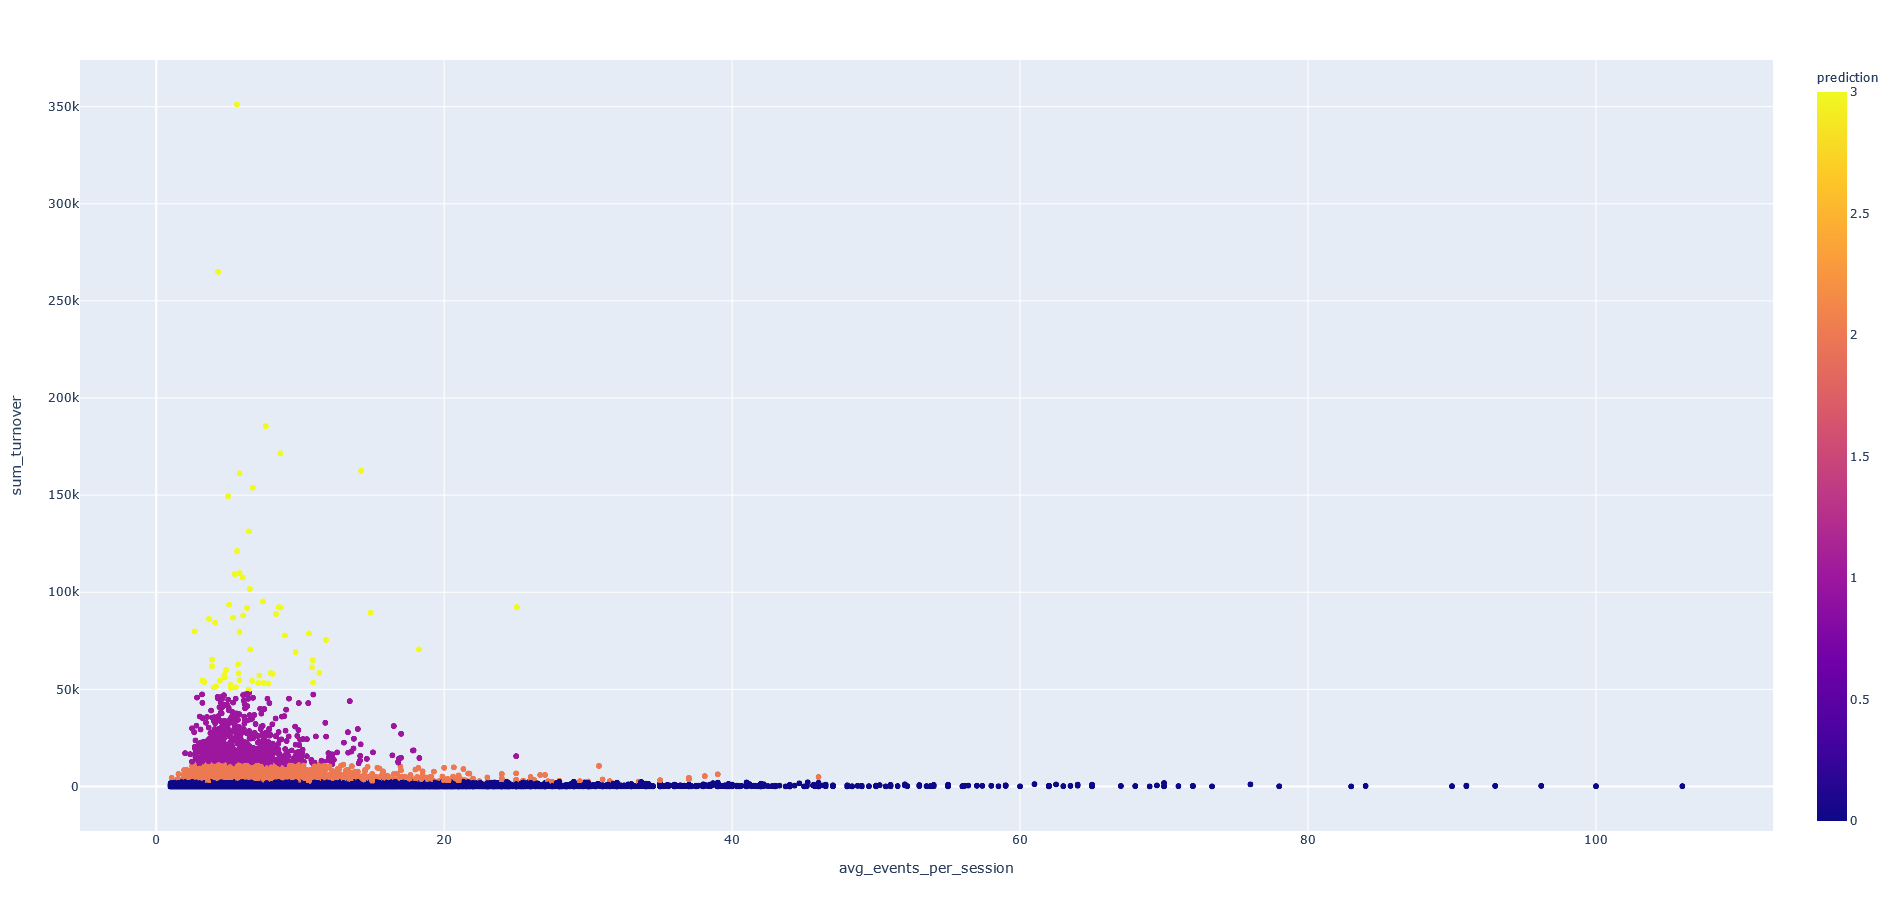
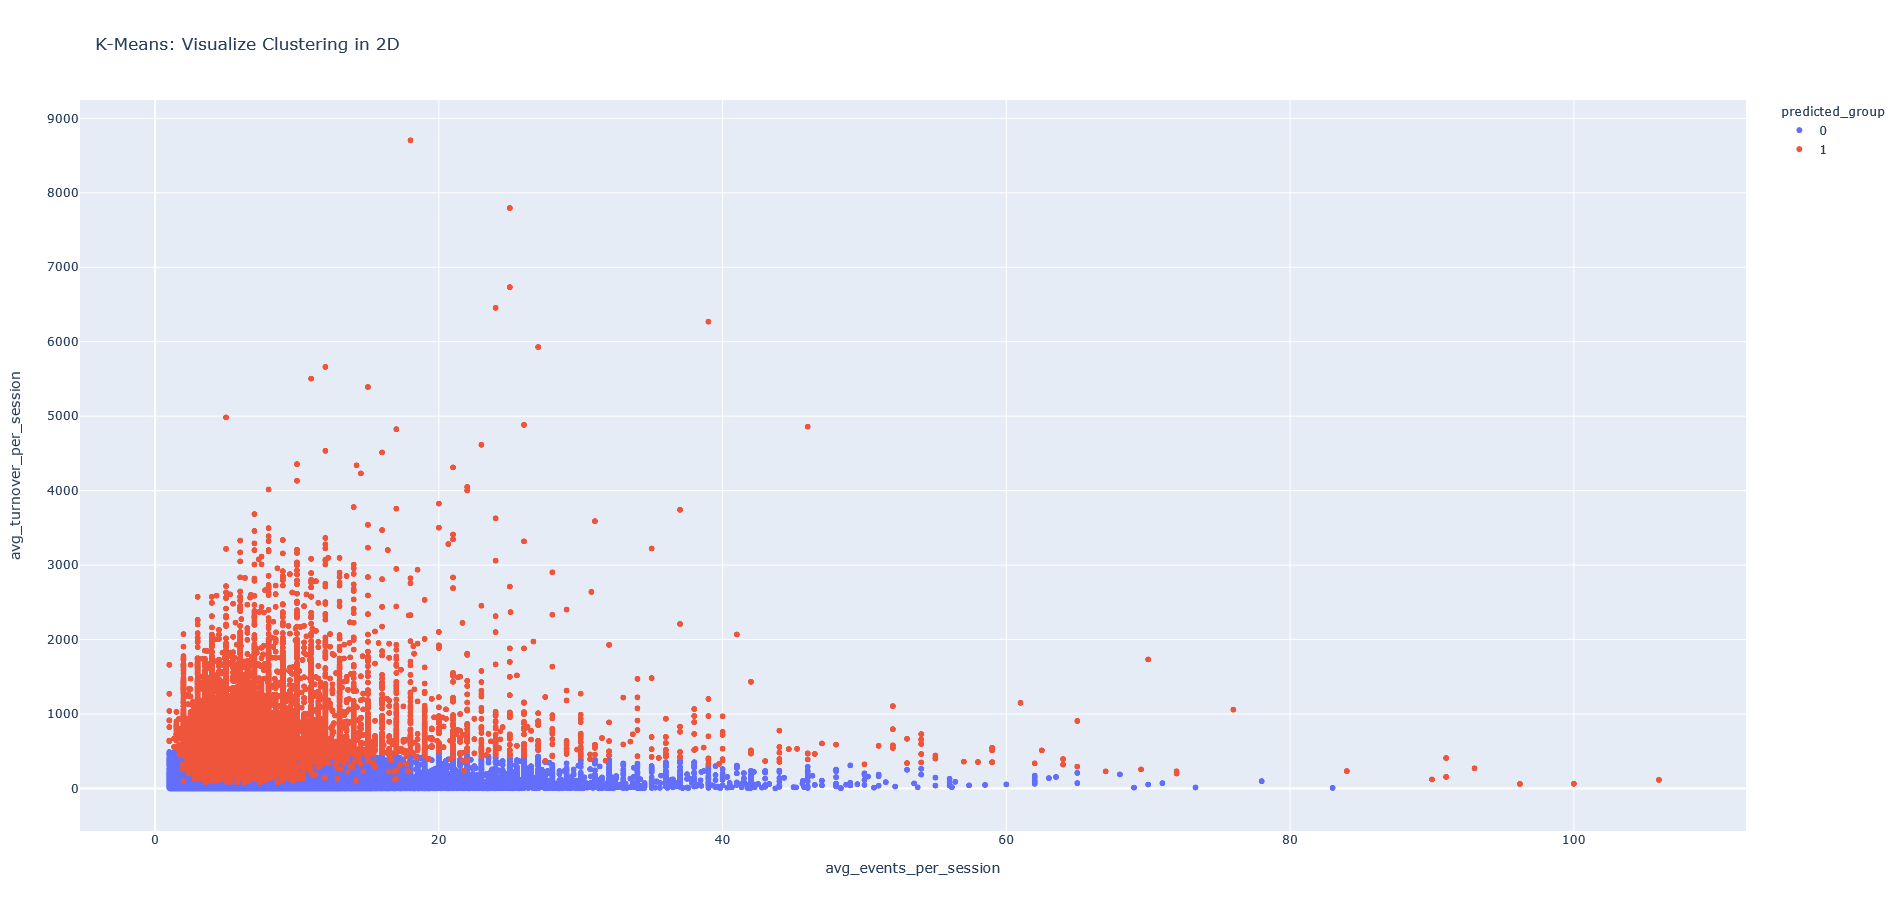
working kmeans with beautiful vis

diff --git a/src/cluster_customer.py b/src/cluster_customer.py
@@ -6,8 +6,9 @@ import plotly.graph_objects as go
 import numpy as np
 from pyspark.ml.evaluation import ClusteringEvaluator
 from pyspark.ml.clustering import KMeans
-from pyspark.ml.feature import VectorAssembler, StandardScaler
+from pyspark.ml.feature import VectorAssembler, StandardScaler, MinMaxScaler, MaxAbsScaler
 from pyspark.ml.feature import MinMaxScaler
+from pyspark.ml.functions import vector_to_array
 from pyspark.ml.feature import VectorAssembler
 from pyspark.ml import Pipeline
 from pyspark.sql.functions import udf
@@ -35,7 +36,7 @@ class ClusterCustomer:
             self.data.export_to_csv(sdf_customer_profile, "data/customer_profile.csv")
         else:
             self.log.info("Read customer profile from CSV")
-            sdf_customer_profile = self.data.spark.read.csv("src/data/customer_profile_new.csv", header=True,
+            sdf_customer_profile = self.data.spark.read.csv("data/customer_profile_new.csv", header=True,
                                                             inferSchema=True)
             # sdf_customer_profile.printSchema()
 
@@ -62,27 +63,15 @@ class ClusterCustomer:
 
     def scale(self, v_data):
         self.log.info("Start scaling")
-        scaler = StandardScaler(inputCol="features", outputCol="scaled_features")
+        scaler = MaxAbsScaler(inputCol="features", outputCol="scaled_features")
         scaled_data = scaler.fit(v_data)
         scaled_data_ouptut = scaled_data.transform(v_data)
 
         # scaled_data_ouptut.select("features", "scaled_features").show(truncate=False)
         return scaled_data_ouptut
 
-    def scale_sdf(self, df):
-        df = self.spark.createDataFrame(self.sc.parallelize([['a', [1, 2, 3], [1, 2, 3]], ['b', [2, 3, 4], [2, 3, 4]]]),
-                                   ["id", "var1", "var2"])
 
-        columns = df.drop('id').columns
-        df_sizes = df.select(*[f.size(col).alias(col) for col in columns])
-        df_max = df_sizes.agg(*[f.max(col).alias(col) for col in columns])
-        max_dict = df_max.collect()[0].asDict()
-
-        df_result = df.select('id', *[df[col][i] for col in columns for i in range(max_dict[col])])
-        df_result.show()
-        return df
-
-    def k_means(self, trainData, testData, k=2):
+    def k_means(self, trainData, testData, k=10):
         # v_trainData = self.vectorize(trainData)
         # v_testData = self.vectorize(testData)
 
@@ -141,22 +130,25 @@ class ClusterCustomer:
         predictions = predictions.withColumn("predicted_group",
                                              predictions["prediction"].cast(pyspark.sql.types.StringType()))
 
-        # fig2 = px.scatter(predictions.toPandas(), x="avg_events_per_session", y="avg_turnover_per_session",
-        #                   color="predicted_group", hover_data=["user_id", "sum_turnover", "count_session"],
-        #                   title="K-Means: Visualize Clustering in 2D")
-        # fig2.show()
+        fig2 = px.scatter(predictions.toPandas(), x="avg_events_per_session", y="avg_turnover_per_session",
+                          color="predicted_group", hover_data=["user_id", "sum_turnover", "count_session"],
+                          title="K-Means: Visualize Clustering in 2D")
+        fig2.show()
+        n = len(self.features)
+        scaled_array = predictions.select("prediction", vector_to_array("scaled_features"))
+        result = scaled_array.select("prediction", *[scaled_array["UDF(scaled_features)"][i] for i in range(n)])
+        result.show()
 
-        predictions_scaled = predictions.withColumn("avg_turnover_per_session", predictions["avg_turnover_per_session"])
-
-        avg_per_feature = predictions.groupBy("prediction").agg(f.avg("avg_turnover_per_session").alias("avg_turnover_per_session"),
-                                                                f.avg("avg_events_per_session").alias("avg_events_per_session"),
-                                                                f.avg("sum_turnover").alias("sum_turnover"),
-                                                                f.avg("count_session").alias("count_session"),
-                                                                f.stddev("avg_turnover_per_session").alias("dev_avg_turnover_per_session"),
-                                                                f.stddev("avg_events_per_session").alias("dev_avg_events_per_session"),
-                                                                f.stddev("sum_turnover").alias("dev_sum_turnover"),
-                                                                f.stddev("count_session").alias("dev_count_session")
-                                                                )
+        avg_per_feature = result.groupBy("prediction").agg(
+            f.avg("UDF(scaled_features)[0]").alias("avg_turnover_per_session"),
+            f.avg("UDF(scaled_features)[1]").alias("avg_events_per_session"),
+            f.avg("UDF(scaled_features)[2]").alias("sum_turnover"),
+            f.avg("UDF(scaled_features)[3]").alias("count_session"),
+            f.stddev("UDF(scaled_features)[0]").alias("dev_avg_turnover_per_session"),
+            f.stddev("UDF(scaled_features)[1]").alias("dev_avg_events_per_session"),
+            f.stddev("UDF(scaled_features)[2]").alias("dev_sum_turnover"),
+            f.stddev("UDF(scaled_features)[3]").alias("dev_count_session")
+            )
 
         avg_per_feature.show()
 
@@ -171,14 +163,14 @@ class ClusterCustomer:
                 name=feature,
             ))
 
-        fig.update_layout(barmode='group')
+        fig.update_layout(barmode='group', title="Scaled Feature per Group", legend_title="Feature")
         fig.update_xaxes(type='category')
         fig.show()
 
 
 if __name__ == "__main__":
     customer = ClusterCustomer()
-    train, test, dev = customer.prep_data(False)
+    train, test, dev = customer.prep_data(True)
     # result = customer.evaluate(train, test)
     result = customer.k_means(train, test)
     # print(result)

diff --git a/src/data_preparation.py b/src/data_preparation.py
@@ -76,6 +76,11 @@ class DataPreparation:
         # None Handling
         # sdf = sdf.fillna(value="not defined")
 
+        # drop extreme outlier around 15th of november -> only works for year 2019
+        sdf = sdf.where(sdf["dayofyear"] != 319)
+        sdf = sdf.where(sdf["dayofyear"] != 320)
+        sdf = sdf.where(sdf["dayofyear"] != 321)
+
         sdf.printSchema()
         return sdf
 
@@ -105,6 +110,7 @@ class DataPreparation:
                                                      f.when(sdf_session_agg["sum(purchases)"] > 0, 1).otherwise(0))
 
         sdf_session_agg.printSchema()
+        sdf_session_agg.show()
         return sdf_session_agg
 
     def make_customer_profiles(self, sdf_session_agg):

diff --git a/documentation.md b/documentation.md
@@ -1,0 +1,35 @@
+# Documentation für eShopper
+
+
+
+# Einführung 
+(Alina)
+## Datensatz 
+## Tools 
+
+
+# Daten Exploration 
+(Alina)
+## ursprüngliche Daten 
+## Feature Engineering 
+## erhaltenes Wissen durch Data Mining 
+
+# Modellierung 
+(Lukas)
+## Vorbereitungen 
+ ### Sessionanalyse 
+ ### Kundenanalyse 
+
+## Kaufverhalten 
+(Phillip)
+
+## Kunden-Cluster mit K-Means 
+(Lukas)
+ ### Skalieren der Daten 
+ ### Training und Programm 
+ ### Evaluieren und Visualisieren 
+ ### Abschließende Interpretationen 
+
+
+# Weitere Schritte 
+(Alina)

diff --git a/README.md b/README.md
@@ -32,6 +32,10 @@ docker container run -p 5433:5432 --name data_exploration -e POSTGRES_PASSWORD=1
 - [Phillip Lange](https://github.com/Sabokou)
 - [Alina Buss](https://github.com/Alinabuss)
 
-### Target
+### Project Goal
 
 ### Tools
+
+## Further documentation
+
+see [documentation.md](documentation.md)
